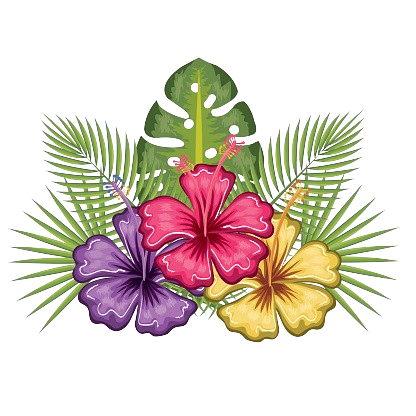
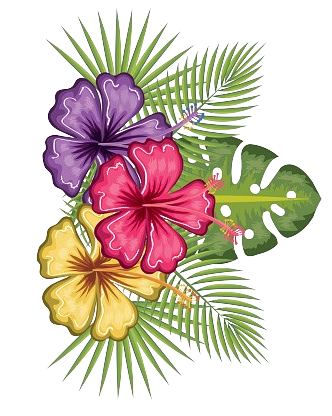
Agregar nuevas imágenes de flores y ajustar posiciones en el diseño

diff --git a/src/App.jsx b/src/App.jsx
@@ -20,6 +20,8 @@ import arbusto2 from "./assets/img/arbusto2.png";
 import arbusto4 from "./assets/img/arbusto4.png";
 
 import flores1 from "./assets/img/flores.png";
+import flores2 from "./assets/img/flores2.png";
+import flores3 from "./assets/img/flores3.png";
 import flores4 from "./assets/img/flor4.png";
 import flores5 from "./assets/img/flor5.png";
 import flores6 from "./assets/img/flor6.png";
@@ -272,13 +274,13 @@ function App() {
         <motion.img
           src={platas4}
           alt="Plantas laterales izquierda"
-          className="absolute top-0 -left-16 h-full z-10 pointer-events-none select-none"
+          className="absolute top-0 -left-30 h-full z-10 pointer-events-none select-none"
           {...float(0.3, 10, 7)}
         />
         <motion.img
           src={platas5}
           alt="Plantas laterales derecha"
-          className="absolute top-0 -right-16 h-full z-10 pointer-events-none select-none"
+          className="absolute top-0 -right-30 h-full z-10 pointer-events-none select-none"
           {...float(0.5, 10, 7)}
         />
 
@@ -287,27 +289,45 @@ function App() {
         <motion.img
           src={flores4}
           alt="Flores lateral superior esquerda"
-          className="absolute top-[8%] -left-10 w-[28%] z-30 pointer-events-none select-none"
+          className="absolute top-[15%] -left-10 w-[28%] z-30 pointer-events-none select-none"
           {...float(0.7, 10, 8)}
         />
         <motion.img
           src={flores1}
           alt="Flores lateral media esquerda"
-          className="absolute top-[32%] -left-8 w-[30%] z-30 pointer-events-none select-none"
+          className="absolute top-[35%] -left-8 w-[30%] z-30 pointer-events-none select-none"
+          {...float(1.0, 11, 8)}
+        />
+        <motion.img
+          src={flores2}
+          alt="Flores lateral media esquerda"
+          className="absolute top-[-2%] -left-4 w-[30%] z-30 pointer-events-none select-none"
           {...float(1.0, 11, 8)}
         />
         <motion.img
           src={flores5}
           alt="Flores lateral baixa esquerda"
-          className="absolute top-[52%] -left-6 w-[26%] z-30 pointer-events-none select-none"
+          className="absolute top-[60%] -left-6 w-[26%] z-30 pointer-events-none select-none"
+          {...float(1.2, 9, 9)}
+        />
+        <motion.img
+          src={flores2}
+          alt="Flores lateral baixa esquerda"
+          className="absolute top-[82%] -left-4 w-[26%] z-30 pointer-events-none select-none"
           {...float(1.2, 9, 9)}
         />
 
         {/* Lado derecho */}
         <motion.img
+          src={flores3}
+          alt="Flores lateral superior direita"
+          className="absolute top-[-4%] -right-4 w-[28%] z-30 pointer-events-none select-none"
+          {...float(0.9, 10, 8)}
+        />
+        <motion.img
           src={flores6}
           alt="Flores lateral superior direita"
-          className="absolute top-[10%] -right-10 w-[28%] z-30 pointer-events-none select-none"
+          className="absolute top-[18%] -right-10 w-[28%] z-30 pointer-events-none select-none"
           {...float(0.9, 10, 8)}
         />
         <motion.img
@@ -317,9 +337,15 @@ function App() {
           {...float(1.1, 11, 8)}
         />
         <motion.img
-          src={flores7}
+          src={flores5}
           alt="Flores lateral baixa direita"
-          className="absolute top-[54%] -right-6 w-[26%] z-30 pointer-events-none select-none"
+          className="absolute top-[60%] -right-6 w-[26%] z-30 pointer-events-none select-none"
+          {...float(1.3, 9, 9)}
+        />
+        <motion.img
+          src={flores3}
+          alt="Flores lateral baixa direita"
+          className="absolute top-[84%] -right-2 w-[26%] z-30 pointer-events-none select-none"
           {...float(1.3, 9, 9)}
         />
 
@@ -357,7 +383,7 @@ function App() {
         <div className="relative z-40 h-full flex flex-col justify-center items-center px-5 pt-4 pb-6">
           {/* Panel principal */}
           <motion.div
-            className="w-full rounded-[26px] bg-black/35 border border-emerald-200/50 backdrop-blur-2xl px-5 py-5 shadow-[0_0_35px_rgba(16,185,129,0.5)] relative"
+            className="w-full rounded-[26px] bg-black/5 border border-emerald-300 backdrop-blur-xs px-5 py-5 shadow-[0_0_35px_rgba(16,185,129,0.5)] relative"
             initial={{ opacity: 0, y: 20, scale: 0.96 }}
             animate={{ opacity: 1, y: 0, scale: 1 }}
             transition={{ delay: 0.6, duration: 0.7 }}
@@ -365,7 +391,7 @@ function App() {
             {/* Botón de música dentro de la tarjeta */}
             <button
               onClick={toggleAudio}
-              className="absolute -top-4 right-2 z-[60] rounded-full bg-black/70 border border-emerald-400/60 text-emerald-200 px-3 py-1.5 text-xs font-semibold flex items-center gap-2 shadow-[0_0_20px_rgba(16,185,129,0.7)] backdrop-blur"
+              className="absolute -top-4 right-2 z-60 rounded-full bg-black/70 border border-emerald-400/60 text-emerald-200 px-3 py-1.5 text-xs font-semibold flex items-center gap-2 shadow-[0_0_20px_rgba(16,185,129,0.7)] backdrop-blur"
             >
               <FaMusic className="text-emerald-300 text-sm" />
               <span>{isPlaying ? "Música ON" : "Ativar música"}</span>
@@ -393,7 +419,7 @@ function App() {
                 animate={{ opacity: 1, y: 0 }}
                 transition={{ delay: 0.9, duration: 0.6 }}
               >
-                ¡Aniversário do Vini!
+                Aniversário do Vini!
               </motion.h1>
             </div>
 
